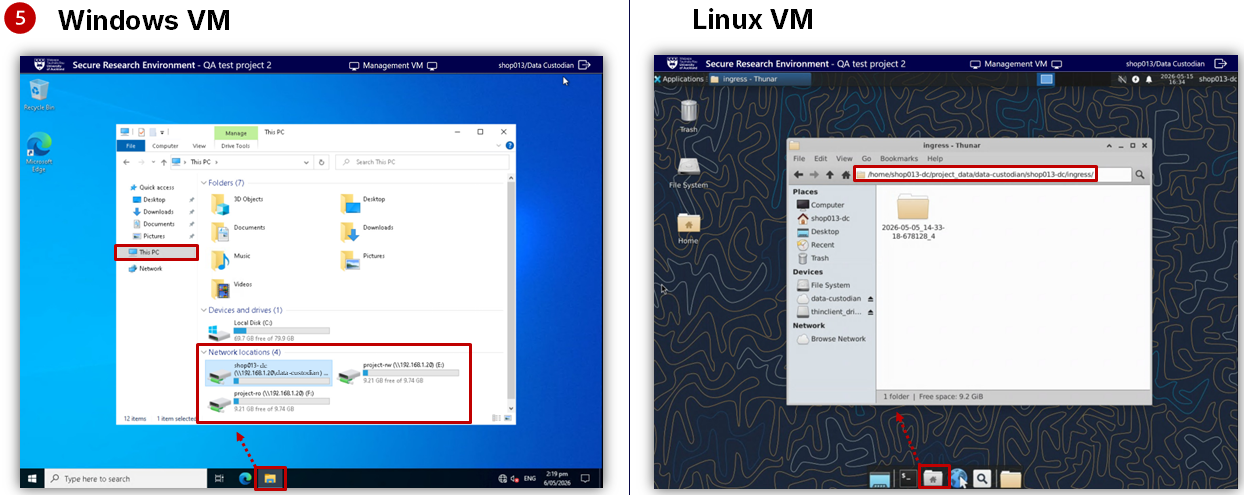
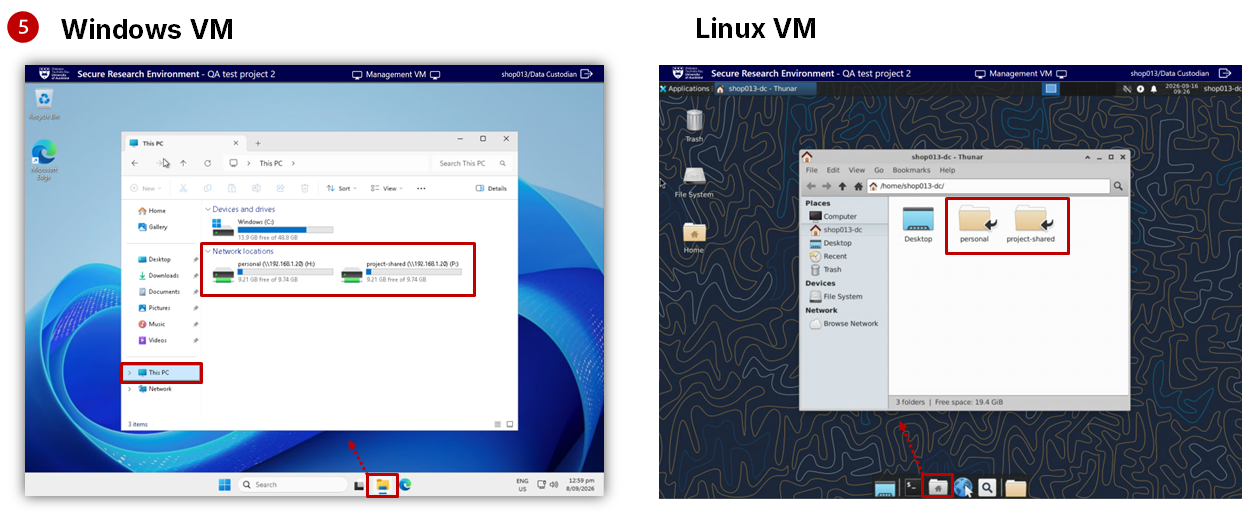
Update storage screenshots for dc, ia, ea

diff --git a/docs/Data_Storage.md b/docs/Data_Storage.md
@@ -18,14 +18,14 @@ The table below provides an overview of the default storage folders available wi
 </thead>
 <tbody>
 <tr>
-    <th>project-personal (<code>[username]-r</code>)</th>
+    <th>project-personal (<code>username-r</code>)</th>
     <td>Read/Write (own folder)</td>
     <td>Individual researcher (Data Custodian has full access)</td>
     <td>Private working space for individual research users</td>
     <td>Contains <code>ingress</code> and <code>egress</code> subfolders</td>
 </tr>
 <tr>
-    <th>data-custodian (<code>[username]-dc</code>)</th>
+    <th>data-custodian (<code>username-dc</code>)</th>
     <td>Read/Write</td>
     <td>Data Custodians</td>
     <td>Used for direct data ingress/egress and data management</td>

diff --git a/docs/As_a_data_ingress_approver.md b/docs/As_a_data_ingress_approver.md
@@ -14,6 +14,14 @@ As an Ingress Approver, use Data Ingress Requests to check and approve files(s) 
   <li>
     Select <strong>Data Ingress Requests</strong> from the left-hand project menu on the Project Dashboard.
   </li>
+</ol>
+
+<figure markdown>
+  ![ingress_approver_1](img/ingress_approver_1.png)
+  <figcaption> </figcaption>
+</figure>
+
+<ol start="4">
   <li>
     Use the <strong>Management VM</strong> to view and inspect the file(s).
     <ul>
@@ -26,11 +34,6 @@ As an Ingress Approver, use Data Ingress Requests to check and approve files(s) 
     </ul>
   </li>
 </ol>
-
-<figure markdown>
-  ![ingress_approver_1](img/ingress_approver_1.png)
-  <figcaption> </figcaption>
-</figure>
 
 ## Approve or decline a request 
 

diff --git a/docs/As_a_data_egress_approver.md b/docs/As_a_data_egress_approver.md
@@ -14,6 +14,14 @@ As an Egress Approver, use Data Egress Requests to check and approve files(s) th
   <li>
     Select <strong>Data Egress Requests</strong> from the left-hand project menu on the Project Dashboard.
   </li>
+</ol>
+
+<figure markdown>
+  ![egress_approver_1](img/egress_approver_1.png)
+  <figcaption> </figcaption>
+</figure>
+
+<ol start="4">
   <li>
     Use the <strong>Management VM</strong> to view and inspect the file(s).
     <ul>
@@ -26,11 +34,6 @@ As an Egress Approver, use Data Egress Requests to check and approve files(s) th
     </ul>
   </li>
 </ol>
-
-<figure markdown>
-  ![egress_approver_1](img/egress_approver_1.png)
-  <figcaption> </figcaption>
-</figure>
 
 ## Approve or decline a request 
 
